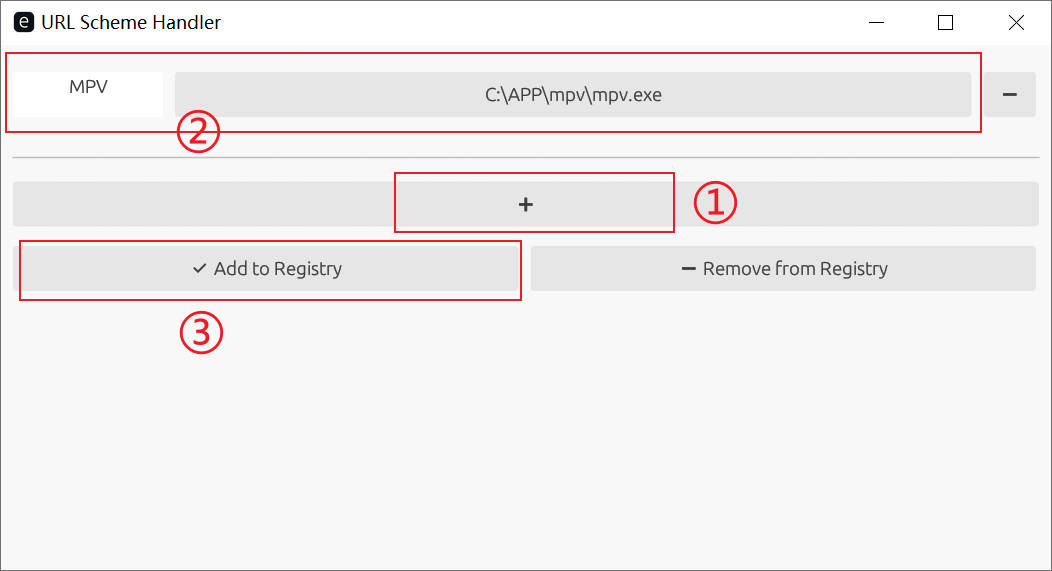
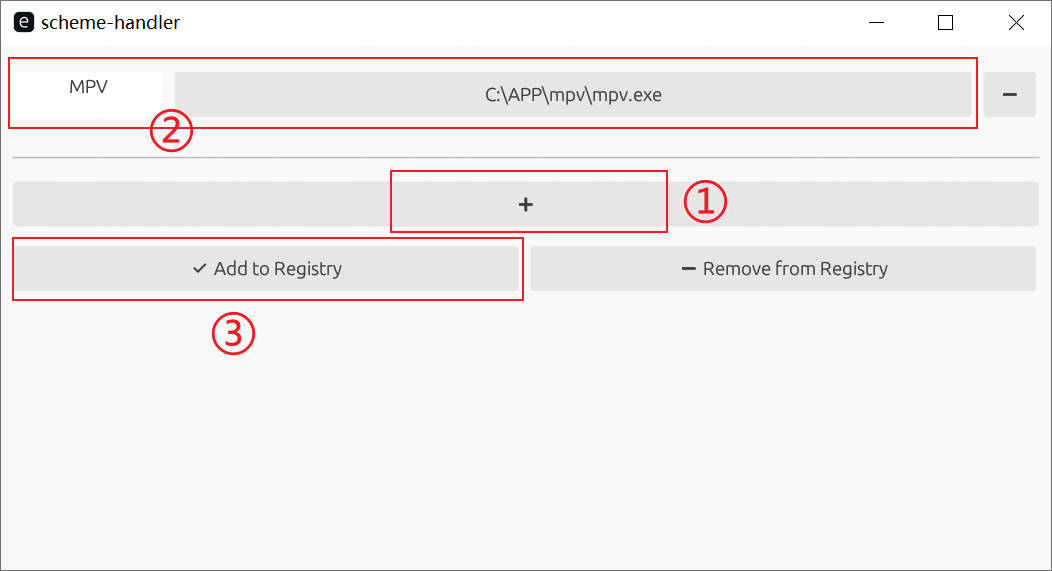
readme

diff --git a/README.md b/README.md
@@ -1,4 +1,4 @@
-# scheme-handler-cross — Rust 构建跨平台版
+# Scheme-Handler — Rust 构建跨平台版
 
 基于 [LuckyPuppy514/url-scheme-handler](https://github.com/LuckyPuppy514/url-scheme-handler) 的实际功能，以 Rust 语言重写，构建跨平台，支持 Windows、Linux、macOS。
 
@@ -15,10 +15,9 @@
 
 ## ✍ 使用
 
-1. 点击 `+ Add to Registry` 添加注册表
-2. 点击 `+` 添加应用
-3. 在左边输入框填写应用名称
-4. 在右边选择需要调用的应用
+1. 点击 `+` 添加应用
+2. 在左边输入框填写应用名称，在右边选择需要调用的应用
+3. 点击 `+ Add to Registry` 添加注册表
 
 - 以 MPV 播放器为例：如图 ② 步骤中 -->Windows 系列选择播放器安装目录下的`mpv.exe`，macOS 系统选择 `/Applications/mpv.app`，Linux 未测试（没设备）
 
